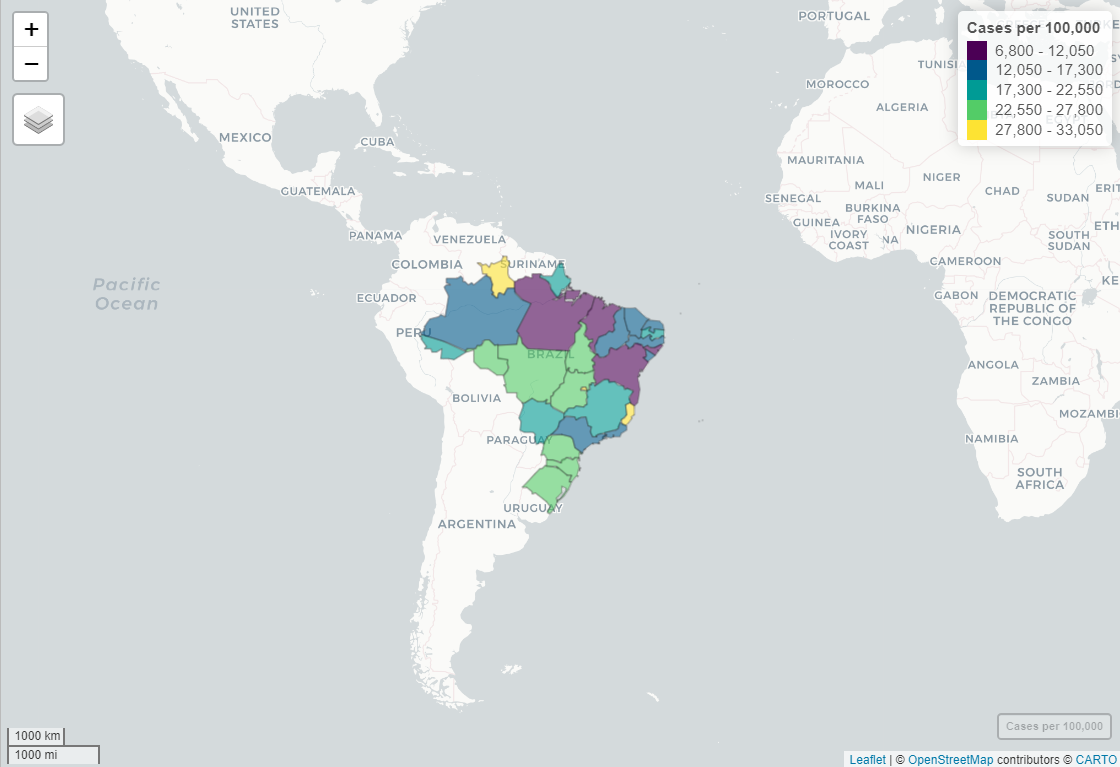
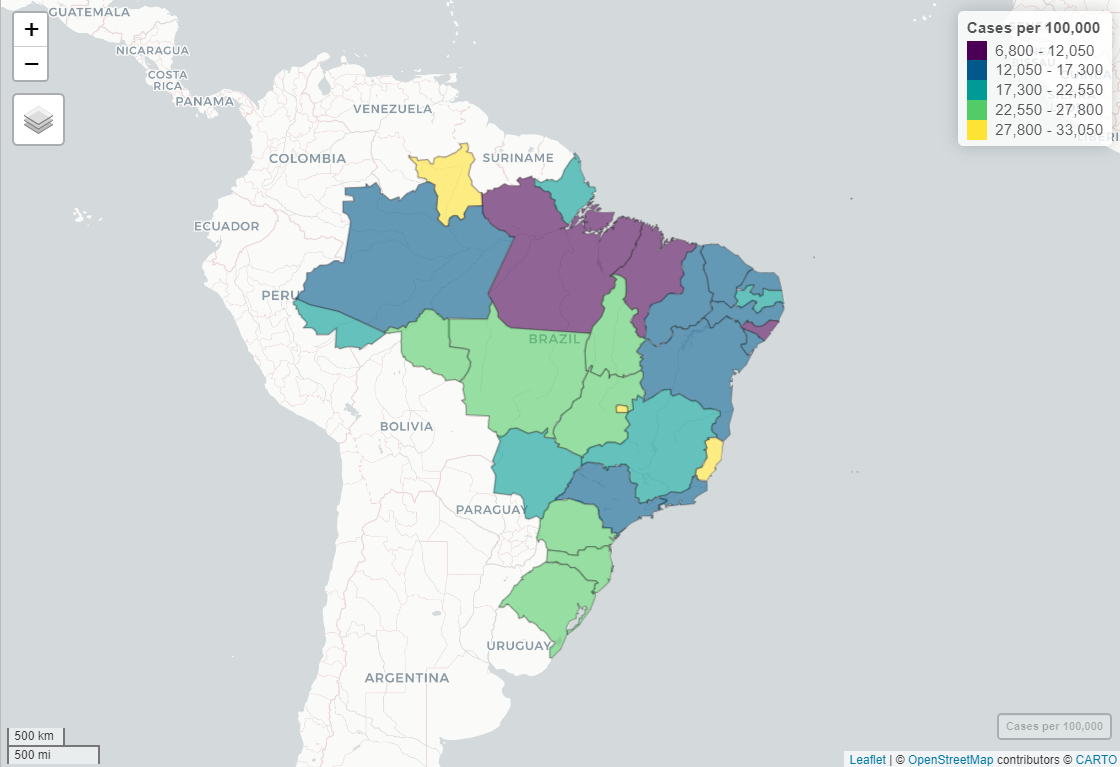
Update README file

diff --git a/README.md b/README.md
@@ -106,7 +106,7 @@ Saude (SUS)](https://www.gov.br/saude/pt-br). Data are available as of
 ## Cases accumulated per 100,000 inhabitants
 
 The graph below shows the number of cases accumulated in each Federative
-Unit of Brazil per 100,000 inhabitants (data for the day 2023-02-17).
+Unit of Brazil per 100,000 inhabitants (data for the day 2023-03-03).
 
 Data source: [Ministerio da Saude - Sistema Unico de Saude
 (SUS)](https://www.gov.br/saude/pt-br)
@@ -115,7 +115,7 @@ Data source: [Ministerio da Saude - Sistema Unico de Saude
 
 Below is the graph for the number of cases accumulated per 100,000
 inhabitants for each of the five macro-regions in Brazil, information
-until the 2023-02-17.
+until the 2023-02-24.
 
 <img src="man/figures/cases100.png" width="100%" />  
 
@@ -129,7 +129,7 @@ inhabitants for each of the 853 municipalities in the state Minas Gerais
 
 In turn, the next graph shows the number of deaths accumulated in each
 Federative Unit of Brazil per 100,000 inhabitants (data for the day
-2023-02-17).
+2023-03-03).
 
 Data source: [Ministerio da Saude - Sistema Unico de Saude
 (SUS)](https://www.gov.br/saude/pt-br)
@@ -138,7 +138,7 @@ Data source: [Ministerio da Saude - Sistema Unico de Saude
 
 The graph below shows the number of accumulated deaths per 100,000
 inhabitants for each of Brazil’s five macro-regions, information until
-the 2023-02-17.
+the 2023-02-24.
 
 <img src="man/figures/deaths100.png" width="100%" />  
 
